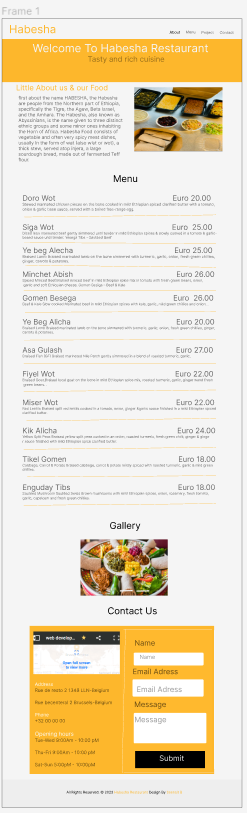
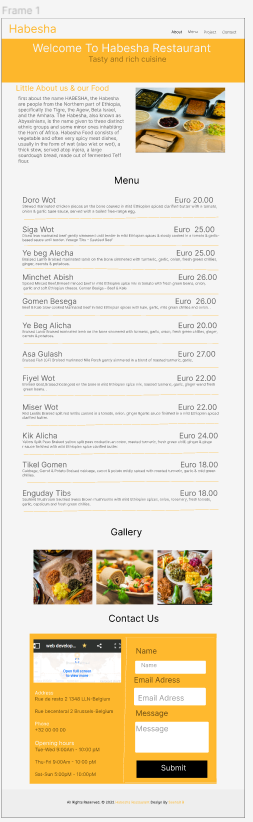
figma design updated

diff --git a/README.md b/README.md
@@ -22,5 +22,5 @@ placement of element with Bootstrap
   [Figma file link](https://www.figma.com/file/LXvf7dpSXCX7BAkvd4Zf6x/Untitled?node-id=0%3A1)
 
   ###### Figma Screen Shot
-  ![img](/restaurant-css-framework/asset/figma%20design%20screen%20shot.png)
+  ![img](/asset/figma%20design%20screen%20shot.png)
 
